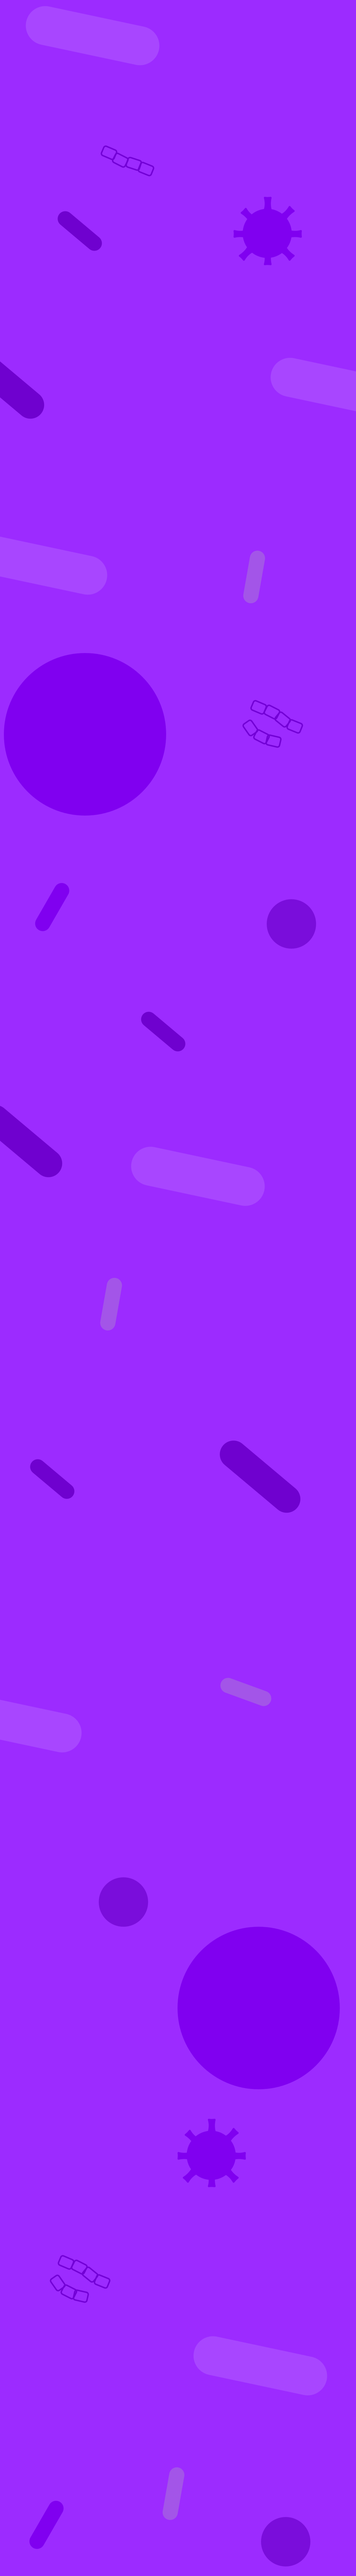
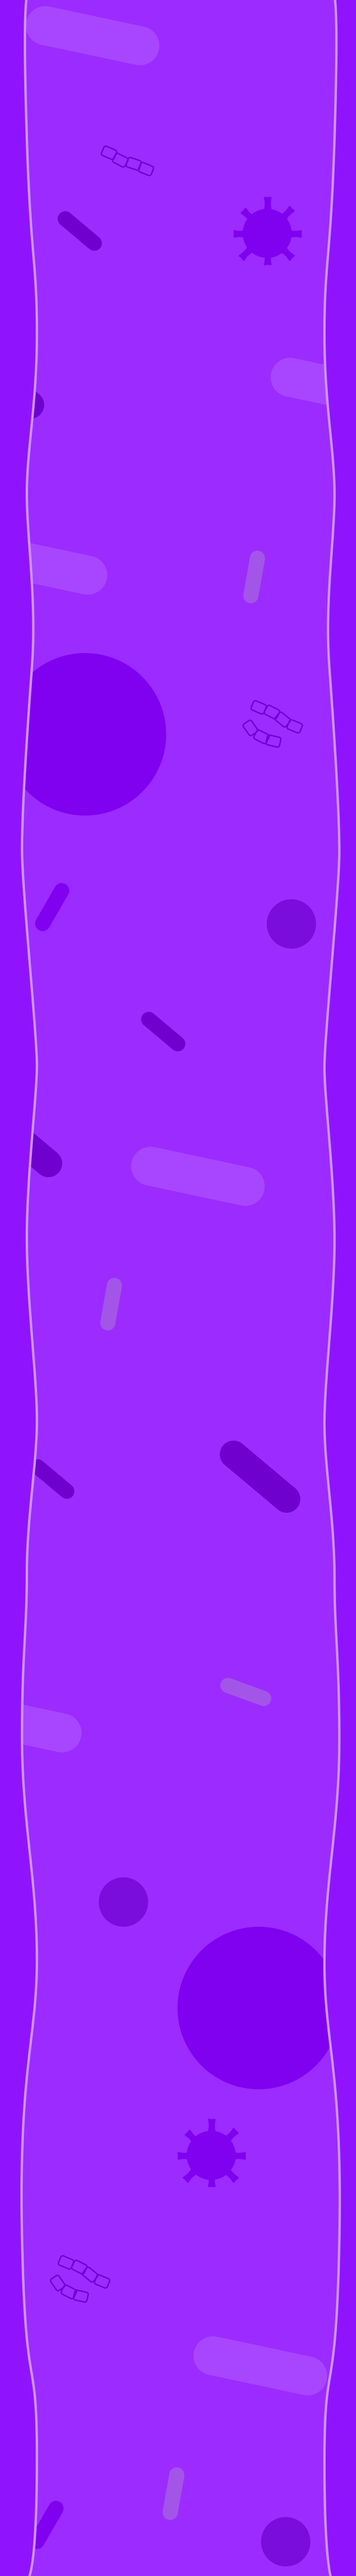
background adjust and new

diff --git a/lib/components/background.dart b/lib/components/background.dart
@@ -7,7 +7,7 @@ import 'package:flame/components/mixins/tapable.dart';
 import 'package:flame/sprite.dart';
 import 'package:flame/anchor.dart';
 
-double bgAspectRatio = 14073 / 1125;
+double bgAspectRatio = 5420 / 750;
 
 class BackgroundTile extends SpriteComponent {
   BackgroundTile(double y)
